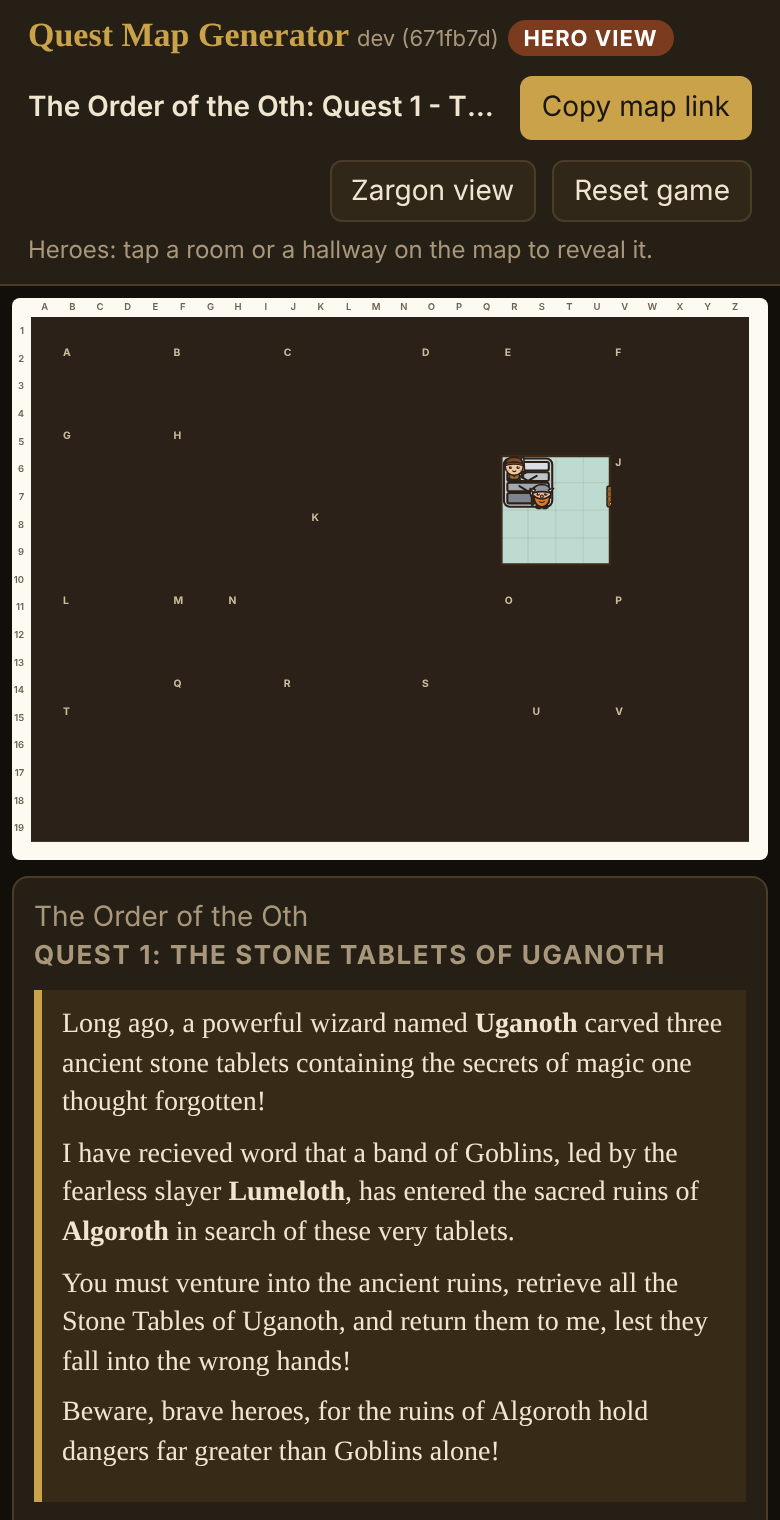
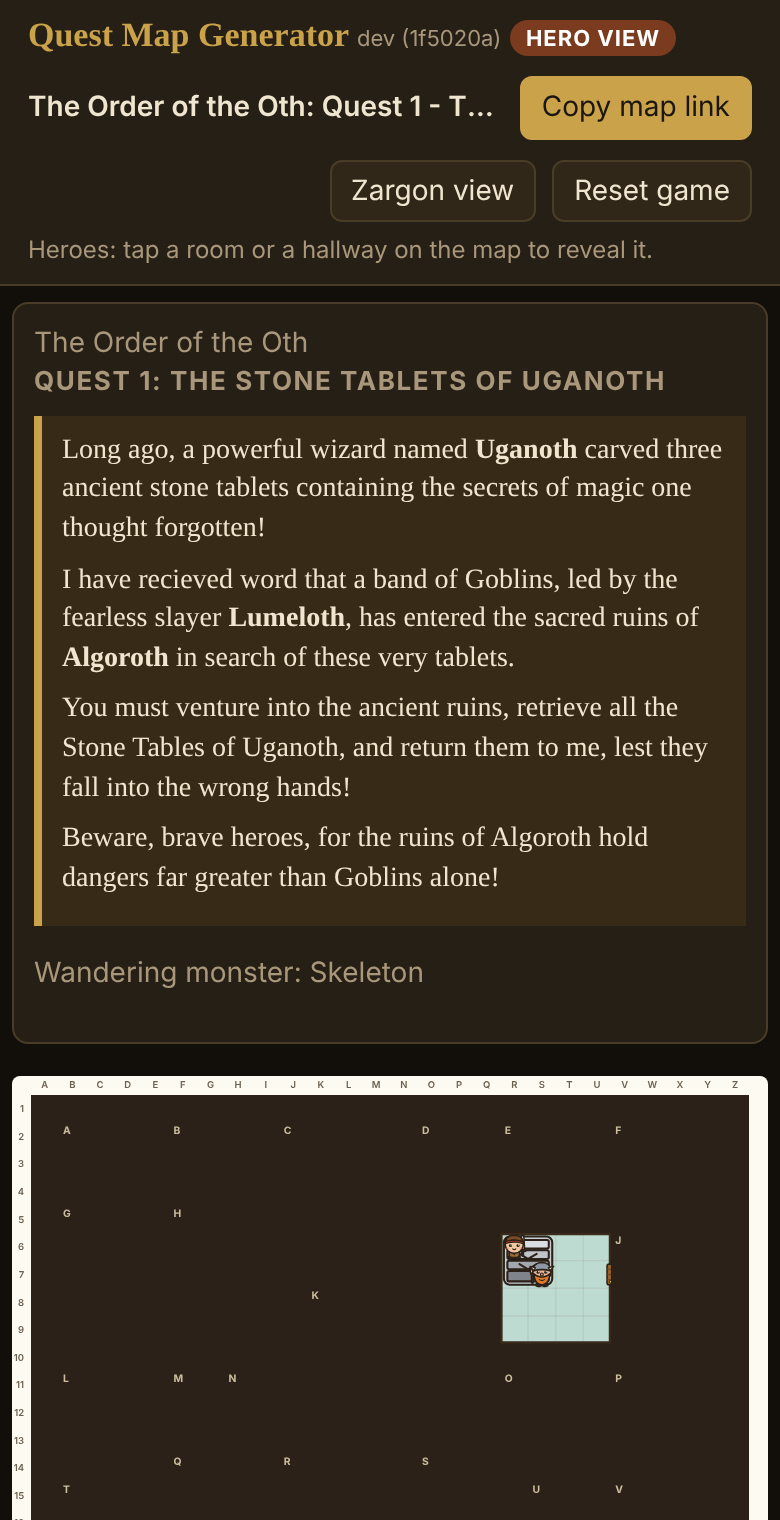
feat: hero view puts the quest info above the map and reveal below it on phones
In the single-column layout the public quest card (series, title,
introduction, wandering monster) now sits above the map and the room card
with Reveal and the searches sits right below it. Wide screens are
unchanged.

This work was substantially AI-generated with human review and
direction throughout.

Vibe-Coder: Vibe-Coder 1.z3r0 <243014891+vibecoder-1z3r0@users.noreply.github.com>

diff --git a/src/js/ui.js b/src/js/ui.js
@@ -827,7 +827,7 @@ const HERO_SEARCHES = [
 
 function heroQuestCard() {
   const st = app.state;
-  const card = el("section", { class: "card" });
+  const card = el("section", { id: "hero-quest", class: "card" });
   if (st.series) card.append(el("div", { class: "muted", text: st.series }));
   const title = [st.num ? `Quest ${st.num}` : "", st.title].filter(Boolean).join(": ");
   if (title) card.append(el("h2", { text: title }));
@@ -841,7 +841,7 @@ function heroQuestCard() {
 function heroRegionCard() {
   const st = app.state;
   const region = app.heroRegion;
-  const card = el("section", { class: "card" });
+  const card = el("section", { id: "hero-region", class: "card" });
   if (region === null) {
     if (!app.heroCell) {
       card.append(el("p", { class: "muted", text: "Tap a room or a hallway on the map." }));

diff --git a/src/style.css b/src/style.css
@@ -215,7 +215,10 @@ body.hero #copy-hero { display: none; }
   #side > .card { margin: 8px 6px 0; order: 4; }
   #side > #inspector-card { order: 1; min-height: 110px; }
   #app > #tools { order: 2; margin-top: 8px; }
-  #hero-panel { order: 1; margin: 8px 6px 0; }
+  /* Hero view: the public quest info above the map, the room card (Reveal and searches) below it. */
+  #hero-panel { display: contents; }
+  #hero-quest { order: -1; margin: 8px 6px 0; }
+  #hero-region { order: 1; margin: 8px 6px 0; }
   #side > #hero-card { order: 1; }
   #stage > .sheet { order: 3; }
 }

diff --git a/tests/test_hero_view.py b/tests/test_hero_view.py
@@ -294,13 +294,28 @@ def test_the_zargon_view_can_switch_to_hero_view_keeping_the_play_state(page, si
     assert not page.locator("#tools").is_visible()
 
 
-def test_the_hero_panel_sits_right_after_the_map_in_the_single_column_layout(page, site):
+def test_in_the_single_column_layout_the_quest_info_is_above_the_map_and_reveal_below_it(
+    page, site
+):
     page.set_viewport_size({"width": 390, "height": 844})
     open_hero(page, site)
+    tap(page, 2, 2)  # a hidden room, so the card with the Reveal button shows
     board = page.locator("#board").bounding_box()
-    hero_panel = page.locator("#hero-panel").bounding_box()
-    assert hero_panel["y"] >= board["y"] + board["height"] - 2
-    assert hero_panel["y"] < board["y"] + board["height"] + 120
+    quest = page.locator("#hero-quest").bounding_box()
+    region = page.locator("#hero-region").bounding_box()
+    assert quest["y"] + quest["height"] <= board["y"] + 2
+    assert region["y"] >= board["y"] + board["height"] - 2
+    assert region["y"] < board["y"] + board["height"] + 120
+    assert page.locator("#hero-reveal").bounding_box()["y"] >= board["y"] + board["height"]
+
+
+def test_on_a_wide_screen_both_hero_cards_stay_in_the_side_column(page, site):
+    open_hero(page, site)
+    board = page.locator("#board").bounding_box()
+    quest = page.locator("#hero-quest").bounding_box()
+    region = page.locator("#hero-region").bounding_box()
+    assert quest["x"] >= board["x"] + board["width"] - 2
+    assert region["x"] >= board["x"] + board["width"] - 2
 
 
 def test_stone_in_a_zone_is_hidden_until_the_zone_is_revealed(page, site):

diff --git a/SESSION_LOG.md b/SESSION_LOG.md
@@ -214,17 +214,18 @@ Source: `/root/.claude/projects/-home-user-the-quest-map-generator/2be6d510-95bb
 | 203 | PR? | 16:06:54 | 7s | 20s | 6 | 544 | 43,899 | 162,887 |
 | 204 | LGTM ship it! | 16:07:22 | 54s | 9s | 30 | 1,667 | 9,785 | 1,268,515 |
 | 205 | I did and deleted the branch | 16:08:24 | 6s | 16m 30s ⏳ | 4 | 255 | 709 | 221,464 |
-| 206 | Hero view:  When room S was revealed and I searched for secret doors n… | 16:25:00 | 3m 21s | — | 84 | 19,058 | 37,893 | 4,989,180 |
+| 206 | Hero view:  When room S was revealed and I searched for secret doors n… | 16:25:00 | 3m 29s | 3s | 86 | 19,490 | 38,532 | 5,123,971 |
+| 207 | For hero view on mobile:  Public Quest info should be above the map, a… | 16:28:32 | 2m 13s | — | 40 | 8,403 | 21,845 | 2,523,026 |
 
-**Total turns:** 206  
-**Total agent time spent (excl. flagged):** 3h 33m  
+**Total turns:** 207  
+**Total agent time spent (excl. flagged):** 3h 36m  
 **Total human think time (excl. outliers):** 4h 13m  
 **Average human think time (excl. outliers):** 1m 26s  
 **Think-time outliers (> 15 min):** 28  
-**Total input tokens:** 4,815  
-**Total output tokens:** 2,445,634  
-**Total cache-write tokens:** 22,035,685  
-**Total cache-read tokens:** 899,830,347  
+**Total input tokens:** 4,857  
+**Total output tokens:** 2,454,469  
+**Total cache-write tokens:** 22,058,169  
+**Total cache-read tokens:** 902,488,164  
 **Cache hit ratio (cache-read ÷ all prompt-side tokens):** 98%
 
 ⚠ Turn(s) 179, 183, 193 had an 'agent time spent' over 30 min (total 1h 59m), which is implausible as real agent work — likely a transcript entry logged near session-resume time rather than when it actually ran. Excluded from the agent-time total above.

diff --git a/docs/HERO_VIEW.md b/docs/HERO_VIEW.md
@@ -132,6 +132,10 @@ one at the bottom touches room S.
 
 ## Notes since it was built
 
+- On a phone (single column) the public quest info sits above the map and the room card (Reveal, the
+  searches, Hide again) sits below it, so the map stays next to the buttons that act on it. On a wide
+  screen both cards stay in the side column.
+
 - A secret door on a zoned corridor square first belonged to the zone only, so the search of the room
   next to it found nothing (seen on quest 1, bottom corridor beside room S). It now belongs to the zone
   and to each touching room.
